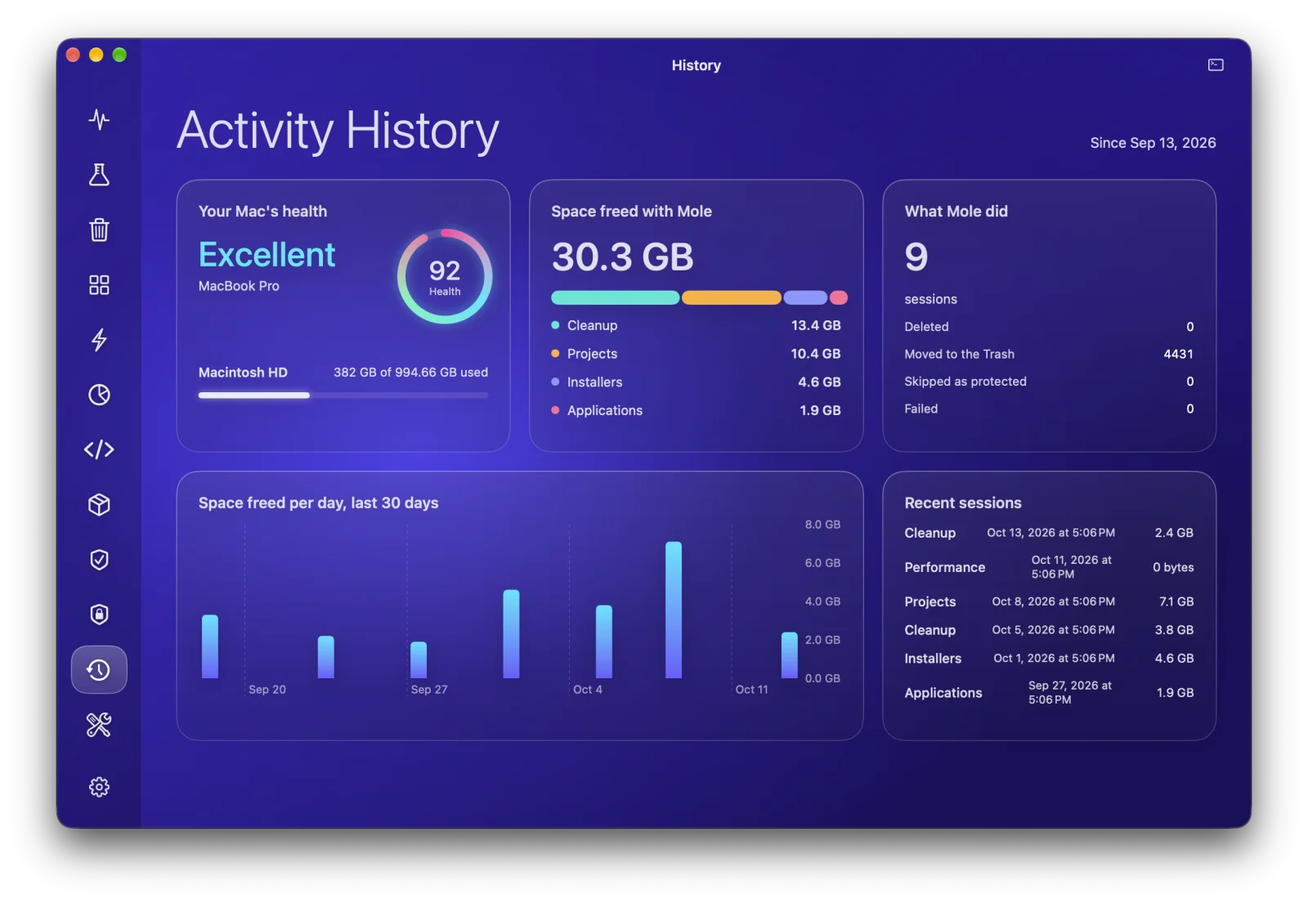
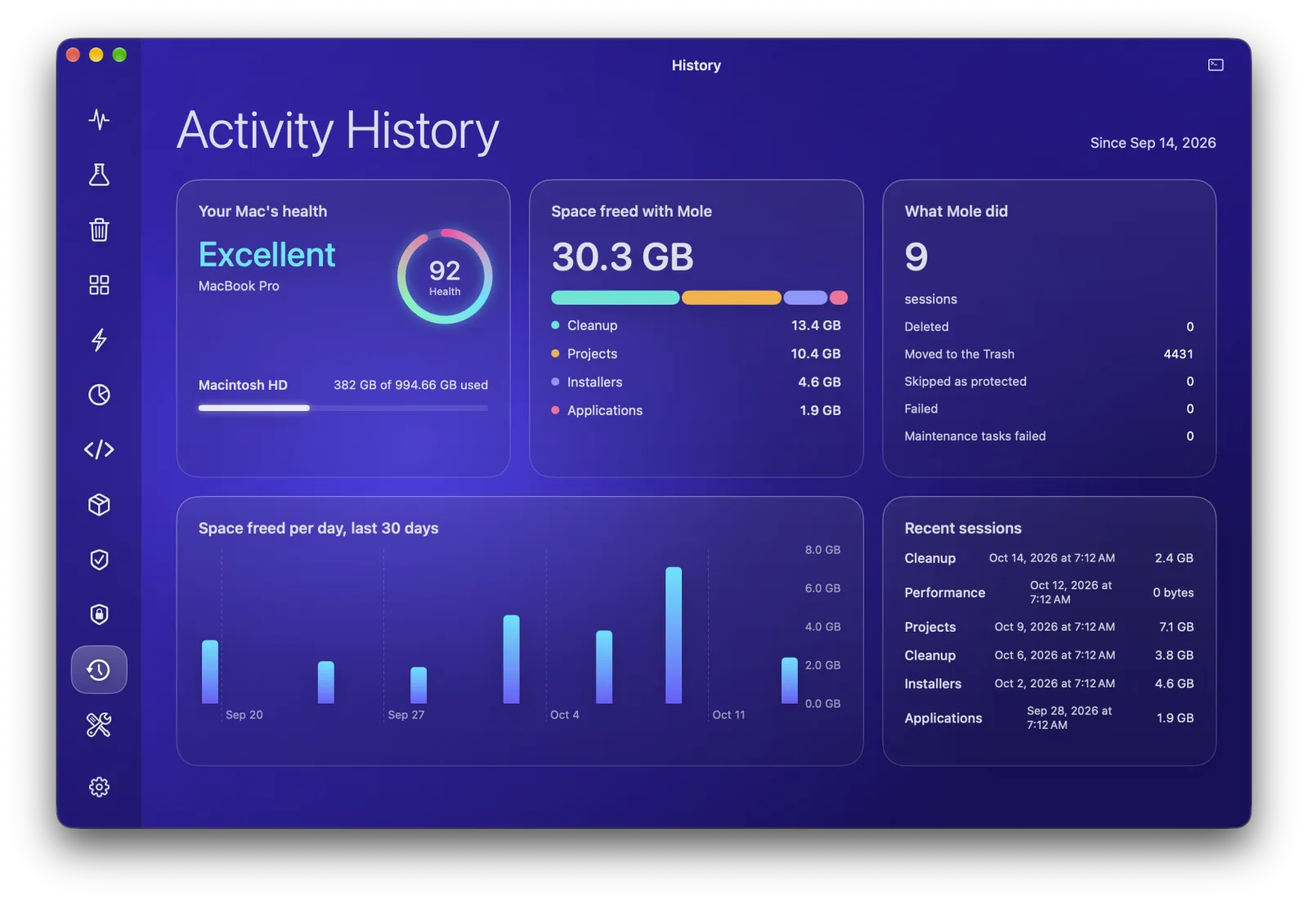
Release 1.2.0: Sparkle feed, READMEs, DESIGN and History screenshots
The feed adds 1.2.0 (build 4) with embedded notes and keeps 1.1.0 and 1.0.0.
READMEs name the 1.2.0 DMG, the CPU temperature in the menu bar, quitting open
apps before an update, the set-aside handover and every download Nora makes.

diff --git a/README.ru.md b/README.ru.md
@@ -32,10 +32,10 @@
 
 - **Ничего не удаляется без вашего просмотра.** Каждый раздел работает одинаково: Сканировать, Просмотреть, Готово. Сначала вы видите каждый элемент и его размер.
 - **Галочкам можно верить.** Снятую галочку Nora действительно соблюдает: на время запуска она защищает этот элемент и сверяет собственный экран подтверждения Mole с вашим выбором. Если что-то не совпадает, Nora отменяет действие, и ничего не удаляется.
-- **Ничего скрытого.** Консоль (<kbd>⌘J</kbd>) показывает каждую команду, которую запустила Nora, и полный вывод Mole. В Настройках можно включить показ точной команды под каждым действием.
+- **Ничего скрытого.** Консоль (<kbd>⌘J</kbd>) показывает каждую команду, которую запустила Nora, и вывод Mole: последние 400 строк каждой из 60 последних команд. В Настройках можно включить показ точной команды под каждым действием.
 - **Встроенный антивирус.** ClamAV и собственные правила Apple XProtect проверяют программы, загрузки и элементы автозапуска. ClamAV ставится одним кликом, а Nora ежедневно обновляет его вирусную базу, пока работает.
 - **Сама устанавливает Mole.** Терминал не нужен. Если есть Homebrew, Nora использует его. Если нет, запустит официальный установщик Mole с закреплённой версией и проверенной контрольной суммой. Пароль администратора не нужен.
-- **Быстрое меню в меню-баре.** Состояние системы, четыре показателя на ваш выбор, что сильнее всего нагружает Mac, сколько места можно освободить, и переход в любой раздел (<kbd>⌥⌘N</kbd>).
+- **Быстрое меню в меню-баре.** Состояние системы, четыре показателя на ваш выбор, что сильнее всего нагружает Mac, сколько места можно освободить, и переход в любой раздел (<kbd>⌥⌘N</kbd>). Значок может показывать температуру процессора с цветной точкой, а из меню-бара его можно убрать.
 - **Нативная и лёгкая.** SwiftUI и AppKit, универсальное приложение для Apple silicon и Intel. Nora запускает ваш Mole и не встраивает собственный движок.
 - **Многоязычная.** Nora говорит на языке вашего Mac, если знает его, иначе по-английски. Новые языки уже в планах.
 
@@ -45,7 +45,7 @@
 |---|---|---|
 | **Умный уход** | Одно сканирование для мусора, обслуживания, папок сборки и установщиков. «Запустить» выполняет все отмеченные задачи по очереди | `mo clean`, `mo optimize`, `mo purge`, `mo installer` (сначала просмотр) |
 | **Очистка** | Кэши, журналы и остатки по категориям. Снимите галочку, чтобы оставить. Системные кэши по желанию, с паролем или Touch ID | `mo clean` с временным списком защиты |
-| **Программы** | Удаляет программу с её помощниками, кэшами и настройками (в Корзину или окончательно), обновляет программы, установленные через Homebrew или скачанные из интернета, находит программы, которые вы не открываете, и самые большие | `mo uninstall`, `brew`, каналы обновлений программ |
+| **Программы** | Удаляет программу с её помощниками, кэшами и настройками (в Корзину или окончательно), обновляет программы, установленные через Homebrew или скачанные из интернета (открытые программы сначала закрывает, а потом открывает снова), находит программы, которые вы не открываете, и самые большие | `mo uninstall`, `brew`, каналы обновлений программ |
 | **Быстродействие** | Что замедляет Mac прямо сейчас и 20 задач обслуживания (DNS, Spotlight, кэши Finder, базы данных, сеть) | `mo optimize` |
 | **Анализ диска** | Папки в виде пузырей и списка, большие файлы, переход вглубь и перемещение в Корзину | `mo analyze --json` |
 | **Состояние системы** | Оценка состояния, процессор, память, диски, сеть, энергия и температуры, режим энергопотребления, трафик по программам, открытые порты, батарея, Bluetooth | `mo status --watch`, системные счётчики |
@@ -94,7 +94,7 @@
 
 ## Установка
 
-1. Скачайте `Nora-1.1.0.dmg` из [последнего выпуска](https://github.com/Lexus2016/Nora/releases/latest).
+1. Скачайте `Nora-1.2.0.dmg` из [последнего выпуска](https://github.com/Lexus2016/Nora/releases/latest).
 2. Откройте его и перетащите **Nora** в **Программы**.
 3. Запустите Nora. Если Mole нет, Nora установит его сама.
 
@@ -110,15 +110,15 @@
 1. Выберите раздел на боковой панели. Быстрее всего начать с **Умного ухода**.
 2. Нажмите **Сканировать**. На этом шаге ничего не удаляется: Nora запускает просмотр Mole.
 3. Просмотрите список. Снимите галочки с того, что хотите оставить, или защитите навсегда в разделе **Защита**.
-4. Нажмите круглую кнопку, чтобы запустить. Пароль Nora спрашивает, только когда включены системные области, а затем показывает, что сделано. **Показать журнал** открывает полный вывод Mole.
+4. Нажмите круглую кнопку, чтобы запустить. Пароль Nora спрашивает, только когда включены системные области, а затем показывает, что сделано. **Показать журнал** открывает вывод Mole в консоли.
 
 ## Безопасность данных
 
 - Nora никогда ничего не удаляет сама. Удаление всегда идёт после просмотра и вашего клика.
-- Кэши, журналы и папки сборки удаляются окончательно, как и в Mole; перед этим Mole ещё раз проверяет каждый путь. Программы и установщики уходят в Корзину. Окончательное удаление программы Nora переспрашивает. Когда Homebrew забирает себе программу, скачанную из интернета, старая копия сначала уходит в Корзину и возвращается, если установка не удалась.
+- Кэши, журналы и папки сборки удаляются окончательно, как и в Mole; перед этим Mole ещё раз проверяет каждый путь. Программы и установщики уходят в Корзину. Окончательное удаление программы Nora переспрашивает. Когда Homebrew забирает себе программу, скачанную из интернета, старая копия сначала откладывается и уходит в Корзину только после того, как Nora проверит новую версию; если установка не удалась, она возвращается на место.
 - Когда Nora меняет список защиты Mole, собственные защиты Mole по умолчанию и правила безопасности остаются на месте.
 - Пароль идёт напрямую к `sudo` через системное окно или Touch ID. Nora его не видит и не хранит.
-- Никакой телеметрии. Nora выходит в интернет только чтобы проверить обновления Nora, Mole и ваших программ (публичный список программ Homebrew и собственные каналы обновлений программ), установить Mole и обновить базу ClamAV, если вы установили ClamAV.
+- Никакой телеметрии. Nora выходит в интернет только чтобы проверить обновления Nora, Mole и ваших программ (публичный список программ Homebrew и собственные каналы обновлений программ), обновить базу ClamAV, если вы установили ClamAV, и скачать то, что вы просите установить: Mole, ClamAV и yara, обновления программ через Homebrew.
 
 Известные ограничения, потому что так работает Mole: папки сборки Mole удаляет через повторное сканирование, а не по списку, поэтому папка, появившаяся за несколько секунд до удаления, не защищена; установщики распознаются по имени, папке и размеру, потому что меню Mole не показывает полный путь.
 

diff --git a/README.uk.md b/README.uk.md
@@ -32,10 +32,10 @@
 
 - **Нічого не видаляється без вашого перегляду.** Кожен розділ працює однаково: Сканувати, Переглянути, Готово. Спершу ви бачите кожен елемент і його розмір.
 - **Галочки, яким можна вірити.** Зняту галочку Nora справді дотримує: на час запуску вона захищає цей елемент і звіряє власний екран підтвердження Mole з вашим вибором. Якщо щось не збігається, Nora скасовує дію, і нічого не видаляється.
-- **Нічого прихованого.** Консоль (<kbd>⌘J</kbd>) показує кожну команду, яку запустила Nora, і повний вивід Mole. У Налаштуваннях можна ввімкнути показ точної команди під кожною дією.
+- **Нічого прихованого.** Консоль (<kbd>⌘J</kbd>) показує кожну команду, яку запустила Nora, і вивід Mole: останні 400 рядків кожної з 60 останніх команд. У Налаштуваннях можна ввімкнути показ точної команди під кожною дією.
 - **Вбудований антивірус.** ClamAV і власні правила Apple XProtect перевіряють програми, завантаження й елементи автозапуску. ClamAV встановлюється одним кліком, а Nora щодня оновлює його вірусну базу, поки працює.
 - **Сама встановлює Mole.** Термінал не потрібен. Якщо є Homebrew, Nora використає його. Якщо немає, запустить офіційний інсталятор Mole із закріпленою версією та перевіреною контрольною сумою. Пароль адміністратора не потрібен.
-- **Швидке меню в меню-барі.** Стан системи, чотири показники на ваш вибір, що найбільше навантажує Mac, скільки місця можна звільнити, і перехід до будь-якого розділу (<kbd>⌥⌘N</kbd>).
+- **Швидке меню в меню-барі.** Стан системи, чотири показники на ваш вибір, що найбільше навантажує Mac, скільки місця можна звільнити, і перехід до будь-якого розділу (<kbd>⌥⌘N</kbd>). Значок може показувати температуру процесора з кольоровою крапкою, а з меню-бару його можна прибрати.
 - **Нативна й легка.** SwiftUI та AppKit, універсальний застосунок для Apple silicon та Intel. Nora запускає ваш Mole і не вбудовує власного рушія.
 - **Багатомовна.** Nora говорить мовою вашого Mac, якщо знає її, інакше англійською. Нові мови вже в планах.
 
@@ -45,7 +45,7 @@
 |---|---|---|
 | **Розумний догляд** | Одне сканування для сміття, обслуговування, тек збірки та інсталяторів. «Запустити» виконує всі позначені задачі по черзі | `mo clean`, `mo optimize`, `mo purge`, `mo installer` (спершу перегляд) |
 | **Очищення** | Кеші, журнали й залишки за категоріями. Зніміть галочку, щоб залишити. Системні кеші за бажанням, з паролем або Touch ID | `mo clean` з тимчасовим списком захисту |
-| **Програми** | Видаляє програму з її помічниками, кешами й налаштуваннями (у Кошик або остаточно), оновлює програми, встановлені через Homebrew або завантажені з інтернету, знаходить програми, які ви не відкриваєте, і найбільші | `mo uninstall`, `brew`, канали оновлень програм |
+| **Програми** | Видаляє програму з її помічниками, кешами й налаштуваннями (у Кошик або остаточно), оновлює програми, встановлені через Homebrew або завантажені з інтернету (відкриті програми спершу закриває, а потім відкриває знову), знаходить програми, які ви не відкриваєте, і найбільші | `mo uninstall`, `brew`, канали оновлень програм |
 | **Швидкодія** | Що сповільнює Mac просто зараз і 20 задач обслуговування (DNS, Spotlight, кеші Finder, бази даних, мережа) | `mo optimize` |
 | **Аналіз диска** | Теки у вигляді бульбашок і списку, великі файли, перехід углиб і переміщення в Кошик | `mo analyze --json` |
 | **Стан системи** | Оцінка стану, процесор, пам’ять, диски, мережа, енергія й температури, режим енергоспоживання, трафік за програмами, відкриті порти, батарея, Bluetooth | `mo status --watch`, системні лічильники |
@@ -94,7 +94,7 @@
 
 ## Встановлення
 
-1. Завантажте `Nora-1.1.0.dmg` з [останнього випуску](https://github.com/Lexus2016/Nora/releases/latest).
+1. Завантажте `Nora-1.2.0.dmg` з [останнього випуску](https://github.com/Lexus2016/Nora/releases/latest).
 2. Відкрийте його й перетягніть **Nora** у **Програми**.
 3. Запустіть Nora. Якщо Mole немає, Nora встановить його сама.
 
@@ -110,15 +110,15 @@
 1. Оберіть розділ на бічній панелі. Найшвидше почати з **Розумного догляду**.
 2. Натисніть **Сканувати**. На цьому кроці нічого не видаляється: Nora запускає перегляд Mole.
 3. Перегляньте список. Зніміть галочки з того, що хочете залишити, або захистіть назавжди в розділі **Захист**.
-4. Натисніть круглу кнопку, щоб запустити. Пароль Nora питає лише тоді, коли включено системні області, а потім показує, що зроблено. **Показати журнал** відкриває повний вивід Mole.
+4. Натисніть круглу кнопку, щоб запустити. Пароль Nora питає лише тоді, коли включено системні області, а потім показує, що зроблено. **Показати журнал** відкриває вивід Mole в консолі.
 
 ## Безпечність
 
 - Nora ніколи не видаляє нічого сама. Видалення завжди йде після перегляду й вашого кліку.
-- Кеші, журнали й теки збірки видаляються остаточно, як і в Mole; перед цим Mole ще раз перевіряє кожен шлях. Програми та інсталятори йдуть у Кошик. Остаточне видалення програми Nora перепитує. Коли Homebrew перебирає на себе програму, завантажену з інтернету, стара копія спершу йде в Кошик і повертається, якщо встановлення не вдалося.
+- Кеші, журнали й теки збірки видаляються остаточно, як і в Mole; перед цим Mole ще раз перевіряє кожен шлях. Програми та інсталятори йдуть у Кошик. Остаточне видалення програми Nora перепитує. Коли Homebrew перебирає на себе програму, завантажену з інтернету, стара копія спершу відкладається й іде в Кошик лише після того, як Nora перевірить нову версію; якщо встановлення не вдалося, вона повертається на місце.
 - Коли Nora змінює список захисту Mole, власні захисти Mole за замовчуванням і правила безпеки лишаються на місці.
 - Пароль іде напряму до `sudo` через системне вікно або Touch ID. Nora його не бачить і не зберігає.
-- Жодної телеметрії. Nora виходить в інтернет лише щоб перевірити оновлення Nora, Mole і ваших програм (публічний список програм Homebrew і власні канали оновлень програм), встановити Mole й оновити базу ClamAV, якщо ви встановили ClamAV.
+- Жодної телеметрії. Nora виходить в інтернет лише щоб перевірити оновлення Nora, Mole і ваших програм (публічний список програм Homebrew і власні канали оновлень програм), оновити базу ClamAV, якщо ви встановили ClamAV, і завантажити те, що ви просите встановити: Mole, ClamAV і yara, оновлення програм через Homebrew.
 
 Відомі обмеження, бо так працює Mole: теки збірки Mole видаляє через повторне сканування, а не за списком, тож тека, що з’явилася за кілька секунд до видалення, не захищена; інсталятори розпізнаються за назвою, текою й розміром, бо меню Mole не показує повного шляху.
 

diff --git a/README.md b/README.md
@@ -32,10 +32,10 @@
 
 - **Nothing is deleted before you review it.** Every module works the same way: Scan, Review, Done. You see each item and its size first.
 - **Checkboxes that mean something.** An unticked item is really kept: Nora protects it for that run and checks Mole's own confirmation screen against your choice before it agrees. If anything does not match, Nora cancels and nothing is removed.
-- **Nothing hidden.** The console (<kbd>⌘J</kbd>) shows every command Nora ran and Mole's full output. You can also show the exact command under each action in Settings.
+- **Nothing hidden.** The console (<kbd>⌘J</kbd>) shows every command Nora ran and Mole's output: the last 400 lines of each of the latest 60 commands. You can also show the exact command under each action in Settings.
 - **Antivirus built in.** ClamAV and Apple's own XProtect rules check your apps, downloads and launch items. One click installs ClamAV, and Nora updates its virus database every day while it runs.
 - **Installs Mole for you.** No Terminal needed. Nora uses Homebrew if you have it, otherwise Mole's official installer with a pinned version and a verified checksum. No admin password.
-- **Menu bar quick menu.** Health, four stats of your choice, what loads your Mac most, space to free and quick jumps to every section (<kbd>⌥⌘N</kbd>).
+- **Menu bar quick menu.** Health, four stats of your choice, what loads your Mac most, space to free and quick jumps to every section (<kbd>⌥⌘N</kbd>). The icon can show the CPU temperature with a coloured dot, or you can hide it from the menu bar.
 - **Native and light.** SwiftUI and AppKit, a universal app for Apple silicon and Intel. Nora runs the Mole you have and does not bundle its own engine.
 - **Multilingual.** Nora speaks your Mac's language when it knows it and falls back to English otherwise. More languages are on the way.
 
@@ -45,7 +45,7 @@
 |---|---|---|
 | **Smart Care** | One scan for junk, maintenance, build folders and installers. *Run* does every ticked task in turn | `mo clean`, `mo optimize`, `mo purge`, `mo installer` (previews first) |
 | **Cleanup** | Caches, logs and leftovers by category. Untick anything to keep it. System caches are optional and ask for your password or Touch ID | `mo clean` with a temporary protection list |
-| **Applications** | Remove an app with its helpers, caches and settings (to the Trash or permanently), update apps installed with Homebrew or from a download, find apps you no longer open and the largest ones | `mo uninstall`, `brew`, app update feeds |
+| **Applications** | Remove an app with its helpers, caches and settings (to the Trash or permanently), update apps installed with Homebrew or from a download (open apps are quit first and opened again), find apps you no longer open and the largest ones | `mo uninstall`, `brew`, app update feeds |
 | **Performance** | What slows your Mac right now, and 20 maintenance tasks (DNS, Spotlight, Finder caches, databases, network) | `mo optimize` |
 | **Space Map** | Folders as a bubble map and a list, large files, drill down and move anything to the Trash | `mo analyze --json` |
 | **System Status** | Health score, processor, memory, disks, network, power and temperatures, energy mode, traffic by app, listening ports, battery, Bluetooth | `mo status --watch`, system counters |
@@ -94,7 +94,7 @@ The screenshots use demo data.
 
 ## Install
 
-1. Download `Nora-1.1.0.dmg` from the [latest release](https://github.com/Lexus2016/Nora/releases/latest).
+1. Download `Nora-1.2.0.dmg` from the [latest release](https://github.com/Lexus2016/Nora/releases/latest).
 2. Open it and drag **Nora** to **Applications**.
 3. Start Nora. If Mole is missing, Nora installs it for you.
 
@@ -110,15 +110,15 @@ To build Nora yourself, see [docs/BUILD.md](docs/BUILD.md).
 1. Pick a section in the left rail. **Smart Care** is the quickest start.
 2. Press **Scan**. Nothing is deleted at this step: Nora runs Mole's preview.
 3. Review the list. Untick anything you want to keep, or keep it for good in **Protection**.
-4. Press the round button to run. Nora asks for your password only when system areas are included, then shows what was done. **Show log** opens Mole's full output.
+4. Press the round button to run. Nora asks for your password only when system areas are included, then shows what was done. **Show log** opens Mole's output in the console.
 
 ## Safety
 
 - Nora never deletes on its own. Removal always follows a review and your click.
-- Caches, logs and build folders are deleted permanently, as Mole does; Mole checks every path again first. Apps and installers go to the Trash. Deleting an app permanently asks once more. When Homebrew takes over an app you downloaded, the old copy goes to the Trash first and comes back if the install fails.
+- Caches, logs and build folders are deleted permanently, as Mole does; Mole checks every path again first. Apps and installers go to the Trash. Deleting an app permanently asks once more. When Homebrew takes over an app you downloaded, the old copy is set aside first and goes to the Trash only after Nora has checked the new version; if the install fails, it goes back.
 - When Nora edits Mole's protection list, Mole's own default protections and safety rules stay in place.
 - Your password goes straight to `sudo` through the system dialog or Touch ID. Nora never sees or stores it.
-- No telemetry. Nora goes online only to check for updates to Nora, Mole and your apps (Homebrew's public app list and each app's own update feed), to install Mole, and to update the ClamAV database if you installed ClamAV.
+- No telemetry. Nora goes online only to check for updates to Nora, Mole and your apps (Homebrew's public app list and each app's own update feed), to update the ClamAV database if you installed ClamAV, and to download what you ask it to install: Mole, ClamAV and yara, and app updates through Homebrew.
 
 Known limits, because Mole works this way: Mole removes build folders by rescanning rather than from a list, so a folder created in the seconds before removal is not protected; and installers are matched by name, folder and size, as Mole's menu shows no full path.
 

diff --git a/docs/ru/DESIGN.md b/docs/ru/DESIGN.md
@@ -282,9 +282,9 @@ Nora.app (SwiftUI, macOS 14+)
 | **M4 Выпуск** | Developer ID, нотаризация, Sparkle, локализация EN/UK/RU | Подписанный DMG; обновления работают; язык следует системе |
 | **M5 Дополнительно** | Модуль «Безопасность», расписание, MCP, модули за пределами Mole (по решению) | — |
 
-### 8.1. Состояние сборки (14.10.2026): выпущена версия 1.0.0
+### 8.1. Состояние сборки (15.10.2026): текущий выпуск 1.2.0
 
-Приложение выпущено как 1.0.0 в GitHub Releases, с обновлениями Sparkle через `appcast.xml` на GitHub Pages. Оно собрано (`App/`, SwiftUI, XcodeGen). Оно выходит как DMG, подписанный Developer ID, прошедший нотаризацию и со вшитой квитанцией, через `scripts/build-dmg.sh` (см. `docs/BUILD.md`). Каждый модуль в боковой панели запускает настоящие команды Mole; макетов нет.
+Приложение впервые выпущено как 1.0.0 14.10.2026; текущий выпуск 1.2.0, в GitHub Releases с обновлениями Sparkle через `appcast.xml` на GitHub Pages. Оно собрано (`App/`, SwiftUI, XcodeGen). Оно выходит как DMG, подписанный Developer ID, прошедший нотаризацию и со вшитой квитанцией, через `scripts/build-dmg.sh` (см. `docs/BUILD.md`). Каждый модуль в боковой панели запускает настоящие команды Mole; макетов нет.
 
 Отклонения от этого дизайна, на ваше вето:
 1. **Выбор в «Проектах»** работает через whitelist-оверлей и `mo purge --yes` вместо драйвера меню: `mo purge` пропускает защищённые артефакты. Проверено сквозным тестом на Mole 1.59.1 в песочнице `$HOME`.

diff --git a/docs/uk/DESIGN.md b/docs/uk/DESIGN.md
@@ -291,9 +291,9 @@ Nora.app (SwiftUI, macOS 14+)
 | **M4 Випуск** | Developer ID, нотаризація, Sparkle, локалізація en/uk/ru | Підписаний DMG, оновлення працює; мова змінюється разом із системною |
 | **M5 Додатково** | Розклад, MCP, модулі поза Mole (за рішенням) | — |
 
-### 8.1. Стан збірки (14.10.2026): випущено версію 1.0.0
+### 8.1. Стан збірки (15.10.2026): поточний випуск 1.2.0
 
-Застосунок випущено як 1.0.0 у GitHub Releases, з оновленнями Sparkle через `appcast.xml` на GitHub Pages. Його зібрано (`App/`, SwiftUI, XcodeGen). Він виходить як DMG, підписаний Developer ID, нотаризований і зі вшитою квитанцією, через `scripts/build-dmg.sh` (див. `docs/BUILD.md`). Кожен модуль у бічній панелі запускає справжні команди Mole; макетів немає.
+Застосунок уперше випущено як 1.0.0 14.10.2026; поточний випуск 1.2.0, у GitHub Releases з оновленнями Sparkle через `appcast.xml` на GitHub Pages. Його зібрано (`App/`, SwiftUI, XcodeGen). Він виходить як DMG, підписаний Developer ID, нотаризований і зі вшитою квитанцією, через `scripts/build-dmg.sh` (див. `docs/BUILD.md`). Кожен модуль у бічній панелі запускає справжні команди Mole; макетів немає.
 
 Відхилення від цього дизайну, на ваше вето:
 1. **Вибір у «Проєктах»** працює через whitelist-оверлей і `mo purge --yes` замість драйвера меню: `mo purge` пропускає захищені артефакти. Перевірено наскрізно на Mole 1.59.1 у пісочниці `$HOME`.

diff --git a/docs/en/DESIGN.md b/docs/en/DESIGN.md
@@ -291,9 +291,9 @@ Every action is at most three clicks from opening Nora or the menu bar, and ever
 | **M4 Release** | Developer ID, notarization, Sparkle, EN/UK/RU localization | Signed DMG; updates work; the language follows the system |
 | **M5 Extras** | Security module, scheduler, MCP, beyond-Mole modules (by decision) | — |
 
-### 8.1. Build status (2026-10-14): released as 1.0.0
+### 8.1. Build status (2026-10-15): current release 1.2.0
 
-The native app is released as 1.0.0 on GitHub Releases, with Sparkle updates from `appcast.xml` on GitHub Pages. It is built (`App/`, SwiftUI, XcodeGen) and ships as a Developer ID signed, notarized and stapled DMG through `scripts/build-dmg.sh` (see `docs/BUILD.md`). Every module in the sidebar runs real Mole commands; none is a mock.
+The native app was first released as 1.0.0 on 2026-10-14; the current release is 1.2.0, on GitHub Releases with Sparkle updates from `appcast.xml` on GitHub Pages. It is built (`App/`, SwiftUI, XcodeGen) and ships as a Developer ID signed, notarized and stapled DMG through `scripts/build-dmg.sh` (see `docs/BUILD.md`). Every module in the sidebar runs real Mole commands; none is a mock.
 
 Changes against this design, for your veto:
 1. **Projects selection** uses the whitelist overlay plus `mo purge --yes` instead of a menu driver: `mo purge` skips whitelisted artifacts. Verified end to end on Mole 1.59.1 in a sandbox `$HOME`.
